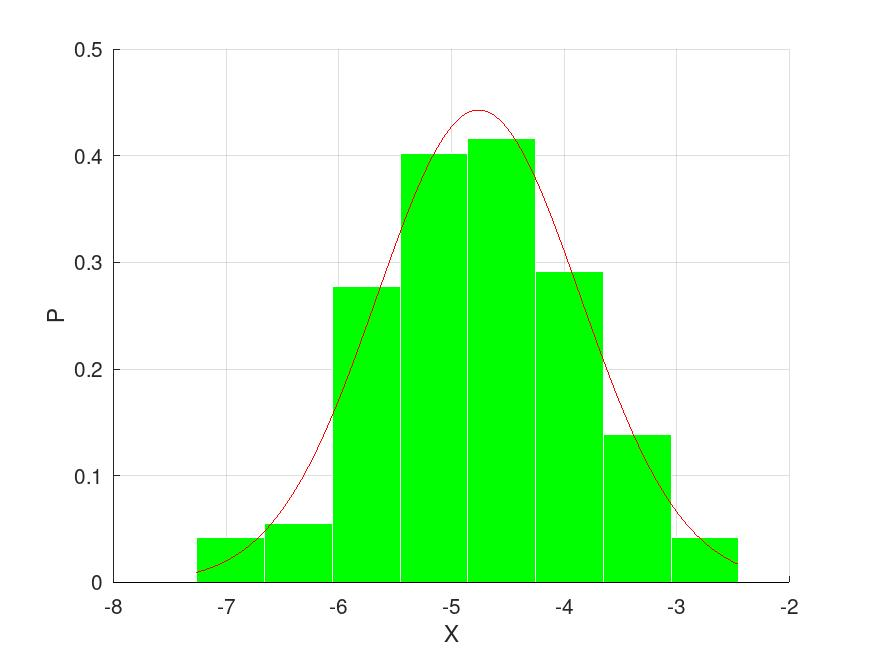
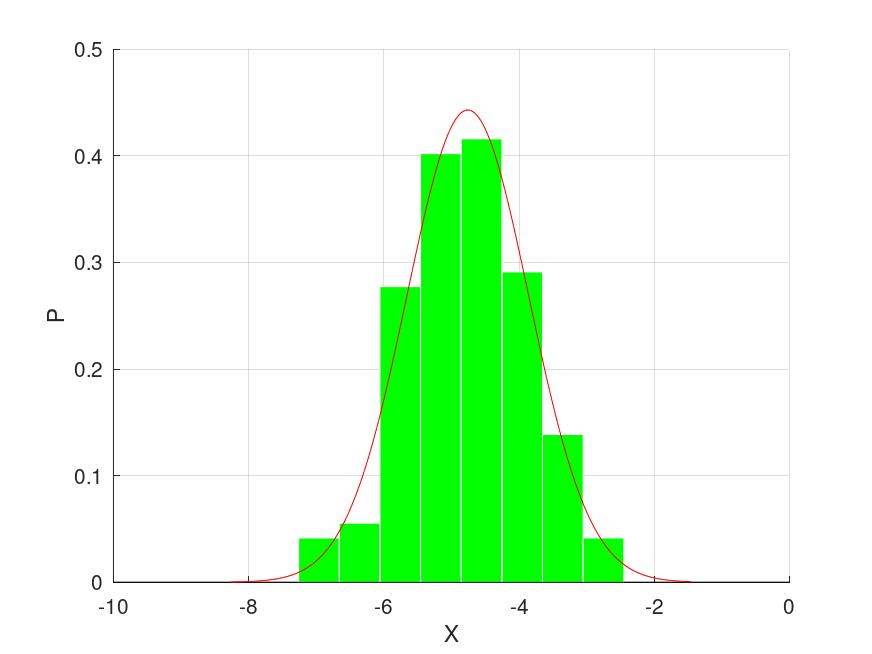
Sysst baka

diff --git a/lab-01/src/main.m b/lab-01/src/main.m
@@ -4,23 +4,22 @@ function main()
 	X = dlmread("input.txt", ",");
 
 	X = sort(X);
-	% disp(X)
 
 	% (a) минимальное и максимальное значение
 	m_max = max(X);
 	m_min = min(X);
 
-    fprintf("(a) (M_max) = %f\n", m_max)
-    fprintf("    (M_min) = %f\n", m_min)
+    fprintf("(a) Максимальное значение выборки (M_max) = %f\n", m_max)
+    fprintf("    Минимальное значение выборки  (M_min) = %f\n", m_min)
     fprintf("-------------------------------------------------\n")
 
 	% (б) размах выборки
     r = m_max - m_min;
-    fprintf("(б) R = %f\n", r)
+    fprintf("(б) Размах выборки (R) = %f\n", r)
     fprintf("------------------------------\n")
 
     % (в) вычисление оценок MX DX
-    n = length(X)
+    n = length(X);
     mu = sum(X) / n;
     s_2 = sum((X - mu).^2) / (n - 1);
     sigma = sqrt(s_2);
@@ -80,7 +79,7 @@ function main()
 
     fprintf("----------------------------------------\n");
 
-	% (д)  построение гистограммы и графика функции плотност
+	% (д)  построение гистограммы и графика функции плотности
 
 	fprintf("(д) построение гистограммы и графика функции плотности\n");
     fprintf("    распределения вероятностей нормальной случайной величины\n");
@@ -114,7 +113,7 @@ function main()
 	% set(gca, "xlim", [min(bins) - 1, max(bins) + 1]);
 	bar(middles, xx, 1, "facecolor", "g", "edgecolor", "w");
 
-	X_n = m_min:(sigma / 100):m_max;
+	X_n = (m_min - 1):(sigma / 100):(m_max + 1);
 	X_pdf = normpdf(X_n, mu, sigma);
 	plot(X_n, X_pdf, "r");
     xlabel('X')
@@ -133,37 +132,38 @@ function main()
     hold on;
     grid on;
 	n = length(X);
-	xx = zeros(1, length(X));
-	curss = 1;
+	xx = zeros(1, m + 3);
 
-	bins = zeros(1, length(X));
-	bins(1) = X(1);
-	for i = 2:length(X)
-		%fprintf("i = %d; curss = %d, X(I) = %d, xx = %d\n", i, curss, X(i), xx(curss))
-		if (bins(curss) != X(i))
-			curss+= 1;
-			bins(curss) = X(i);
-			xx(curss) = xx(curss-1);
-		endif
-		if (bins(curss) == X(i))
-			xx(curss) += 1;
-		endif
+	bins = [(min(bins) - 0.5) bins (max(bins) + 1)];
+	counts = [0 counts 0];
+
+	m = m + 2;
+
+	acc = 0;
+
+	for i = 2:m
+		acc = acc + counts(i);
+		xx(i) = acc / n;
 	end
 
-	xx = xx ./ length(X);
+	xx(m + 1) = 1;
 
-	for i = curss:length(X)
-		xx(i) = 1;
-	end
-
-
-	X_n = (min(X) - 0.5):(sigma / 100):(max(X) + 1.5);
-	X_cdf = normcdf(X_n, mu, s_2);
+	X_n = (min(X) - 2):(sigma / 100):(max(X) + 2);
+	X_cdf = normcdf(X_n, mu, sigma);
 	plot(X_n, X_cdf, "r");
 
+
+	for i = 2:m
+		fprintf("x = %f : F(x) = %f\n", bins(i), xx(i));
+	end
+
+
+	% set(gca, "xtick", bins);
+	% set(gca, "ylim", [0, 1.1]);
+	% set(gca, "ytick", xx);
 	stairs(bins, xx);
-    xlabel('X');
-    ylabel('F');
-    print -djpg cdf.jpg;
+    xlabel('X')
+    ylabel('F')
+    print -djpg cdf.jpg
     hold off;
 end
